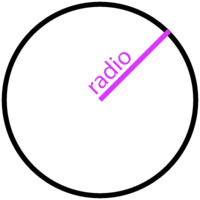
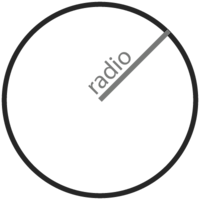
Código y comentarios ajustados

Changed region(s): [[0.0, 0.0, 0.99, 0.99]]

diff --git a/14.AreaYPerimetroCirculo/vista/PanelEntradaDatos.java b/14.AreaYPerimetroCirculo/vista/PanelEntradaDatos.java
@@ -21,7 +21,7 @@ public class PanelEntradaDatos extends JPanel
     private JLabel lbRadio;
     private JTextField tfRadio;
 
-    private Font fontLabel = new Font("Arial", Font.BOLD, 25);
+    private Font fontLabel = new Font("Arial", Font.BOLD, 20);
     private Font fontField = new Font("Arial", Font.BOLD, 15);
 
     //
@@ -33,27 +33,26 @@ public class PanelEntradaDatos extends JPanel
     public PanelEntradaDatos()
     {
         this.setLayout(null);
-        this.setBackground(Color.GRAY);
+        this.setBackground(new Color(235, 219, 178));
 
         // Creación y adición de la imagen al panel
         iImagen = new ImageIcon(getClass().getResource("/vista/circulo.png"));
         lbImagen = new JLabel(iImagen);
-        lbImagen.setBounds(20,15,200,200);
+        lbImagen.setBounds(15,15,200,200);
         this.add(lbImagen);
 
         // Creación y adición de etiqueta lbRadio
         lbRadio = new JLabel("Radio:");
         lbRadio.setFont(fontLabel);
-        lbRadio.setForeground(new Color(216, 56, 249));
-        lbRadio.setBounds(260, 115, 100, 20);
+        lbRadio.setForeground(Color.GRAY);
+        lbRadio.setBounds(220, 115, 70, 20);
         this.add(lbRadio);
 
         // Creación y adición de caja de texto para el radio
         tfRadio = new JTextField();
-        tfRadio.setBackground(Color.GRAY);
         tfRadio.setForeground(Color.BLACK);
         tfRadio.setFont(fontField);
-        tfRadio.setBounds(340, 115, 100, 20);
+        tfRadio.setBounds(290, 115, 60, 20);
         this.add(tfRadio);
 
         // Borde del panel

diff --git a/14.AreaYPerimetroCirculo/vista/PanelResultados.java b/14.AreaYPerimetroCirculo/vista/PanelResultados.java
@@ -25,24 +25,28 @@ public class PanelResultados extends JPanel
     public PanelResultados()
     {
         this.setLayout(null);
-        this.setBackground(Color.BLACK);
+        this.setBackground(new Color(235, 219, 178));
 
         // Creación y adición del area de texto
         taResultado = new JTextArea();
         spResultado = new JScrollPane(taResultado);
-        spResultado.setBounds(10,20,460,85);
+        spResultado.setBounds(10,20,160,195);
+        taResultado.setEditable(false); // No se puede editar el area de texto
+        taResultado.setBackground(Color.WHITE);
+        taResultado.setForeground(Color.BLACK);
+        taResultado.setCaretColor(taResultado.getBackground());
         this.add(spResultado);
 
         // Añadiendo borde
         TitledBorder borde = BorderFactory.createTitledBorder("Resultados");
-        borde.setTitleColor(Color.white);
+        borde.setTitleColor(Color.black);
         this.setBorder(borde);
     }
 
     // Método de acceso a la información
     public void mostrarResultado(double area, double perimetro)
     {
-        taResultado.append("Area: " + area + "\tperimetro: " + perimetro + "\n");
+        taResultado.append("Area: " + area + "\nPerimetro: " + perimetro + "\n"); //
     }
 
     // Método para borrar el área de texto

diff --git a/14.AreaYPerimetroCirculo/vista/VentanaPrincipal.java b/14.AreaYPerimetroCirculo/vista/VentanaPrincipal.java
@@ -24,22 +24,22 @@ public class VentanaPrincipal extends JFrame
 
         // Agregando el PanelEntradaDatos
         miPanelEntradaDatos = new PanelEntradaDatos();
-        miPanelEntradaDatos.setBounds(10,10,480,230);
+        miPanelEntradaDatos.setBounds(10,10,370,230);
         this.add(miPanelEntradaDatos);
 
         // Agregando el PanelOPeraciones
         miPanelOperaciones = new PanelOperaciones();
-        miPanelOperaciones.setBounds(10,250,480,115);
+        miPanelOperaciones.setBounds(10,250,560,100);
         this.add(miPanelOperaciones);
 
         // Agregando el PanelResultados
         miPanelResultados = new PanelResultados();
-        miPanelResultados.setBounds(10,375,480,115);
+        miPanelResultados.setBounds(390,10,180,230);
         this.add(miPanelResultados);
         
         // Características de la ventana
         this.setTitle("Area y perimetro del circulo");
-        this.setSize(700, 500);
+        this.setSize(600, 400);
         //this.setLocation(500, 500); // Posicion respecto a la pantalla
         this.setLocationRelativeTo(null);// Posiciona en el centro la ventana
         this.setResizable(false); // Hace que no se pueda maximizar

diff --git a/14.AreaYPerimetroCirculo/vista/PanelOperaciones.java b/14.AreaYPerimetroCirculo/vista/PanelOperaciones.java
@@ -25,7 +25,7 @@ public class PanelOperaciones extends JPanel
     public PanelOperaciones()
     {
         this.setLayout(null);
-        this.setBackground(Color.DARK_GRAY);
+        this.setBackground(new Color(235, 219, 178));
 
         // Creación y adición del botón calcular
         btCalcular = new JButton("Calcular");
